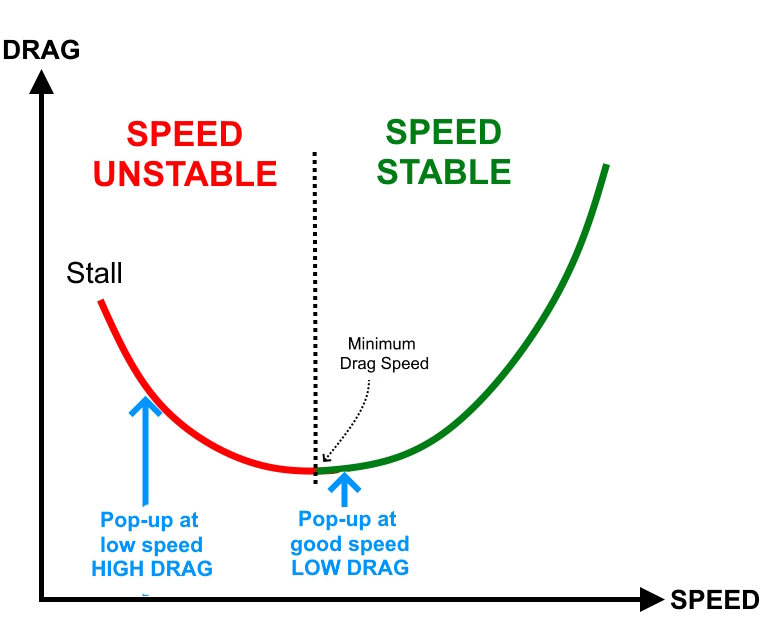
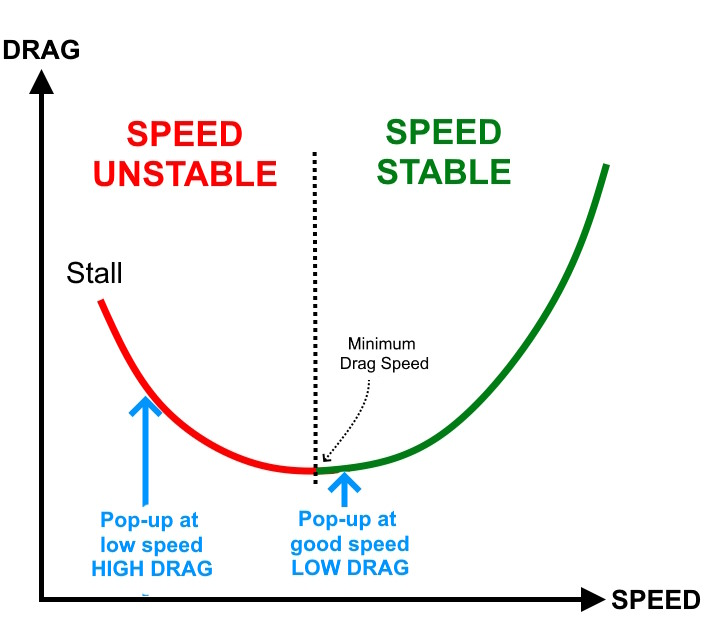
p

diff --git a/foiling.html b/foiling.html
@@ -73,20 +73,21 @@
 
           <div class="sections1">
             <div class = "diagrams">
-              <img src = "popupspeed.jpg" width="400px" height="280px" />
+              <img src = "popupspeed.jpg" width="350px" height="280px" />
             </div>
           </div>
 
           <p>This graph comes into effect once the rider is out of the water. The high drag at slow speeds is caused by a high Angle of Attack. So if we try and pop the board out of the water at too low a speed, drag is very high.</p>
         
           <div class="sections1">
-            <div class = "diagrams">
+            <div>
+              <p>Trying to pop up at too slow a speed is a very common mistake that beginners and intermediates make. They come out of the water a bit, with a very high nose, then instantly lose speed and lift.</p>
+              <p>Even if we aren't yet popping up, if we have the nose too high, both the drag from the foil and the tail of the board reduce our speed, making it impossible to lift up.</p>
+              </div>
+            <div class = "diagrams_centre">
               <img src = "highdrag.jpg" width="150px" height="112px" />
             </div>
-            <div>
-            <p>Trying to pop up at too slow a speed is a very common mistake that beginners and intermediates make. They come out of the water a bit, with a very high nose, then instantly lose speed and lift.</p>
-            <p>Even if we aren't yet popping up, if we have the nose too high, both the drag from the foil and the tail of the board reduce our speed, making it impossible to lift up.</p>
-            </div>
+            
           </div>
           
 
@@ -96,12 +97,13 @@
             <div class = "diagrams">
               <img src = "lowdrag.jpg" width="150px" height="112px" />
             </div>
-            <div>
+            
             <p>So it is better to gain more speed on the surface of the water with the board almost flat, then pop up. BOARD FLAT is key!</p>
-            </div>
+            
+          </div>
 
             <p>For ultimate refinement, the optimum Angle of Attack is about 5degrees nose up, where the lift:drag ratio is at it's maximum. This still feels pretty flat.</p>
-            </div>
+            
           
 
           

diff --git a/styles.css b/styles.css
@@ -297,6 +297,22 @@ img {
       flex-direction: row;
     }
 
+    .diagrams_centre {
+      
+      
+      display: flex;
+      justify-content: center;
+      align-items: center;
+     
+  }
+  
+  .diagrams_centre > img {
+    border-color:rgb(0, 0, 0);
+    border: 1px;
+    border-style: solid;
+  }
+  
+
     .diagrams {
       width: min-content;
       height: min-content;
